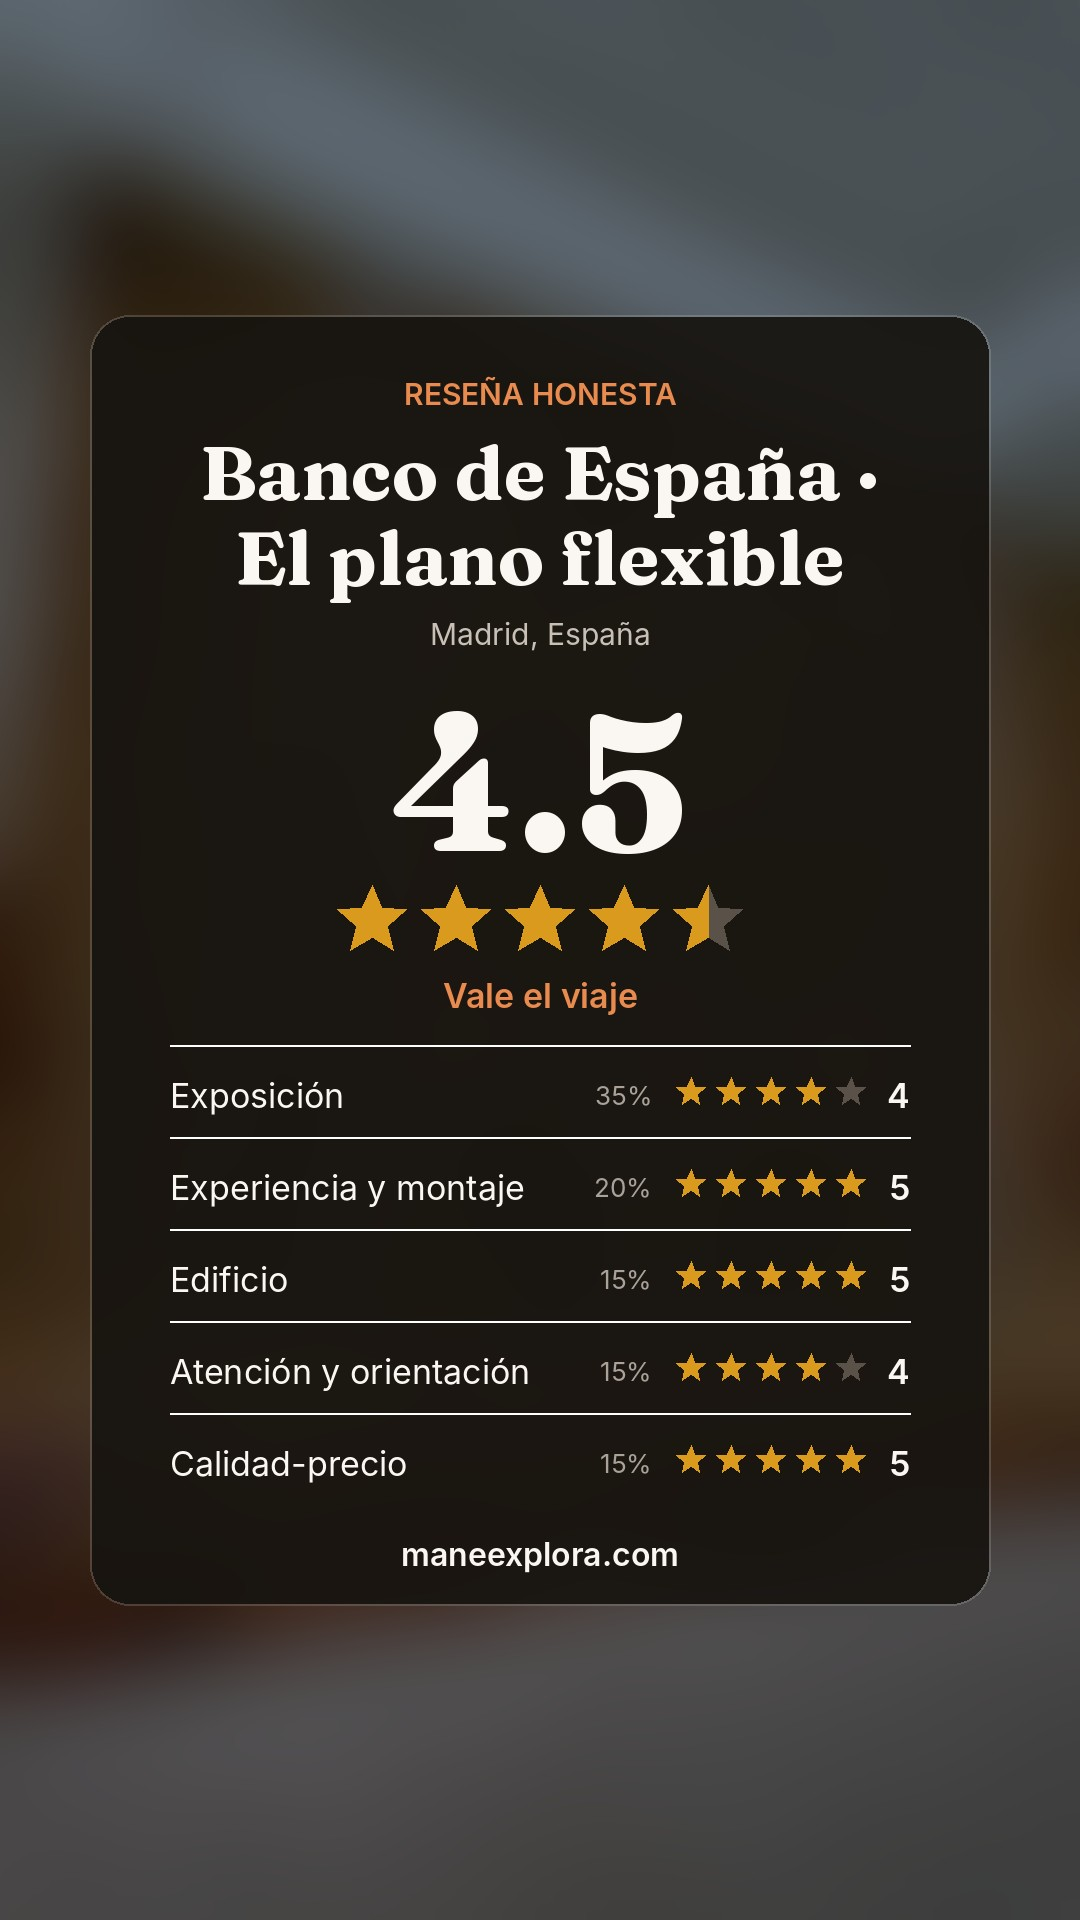
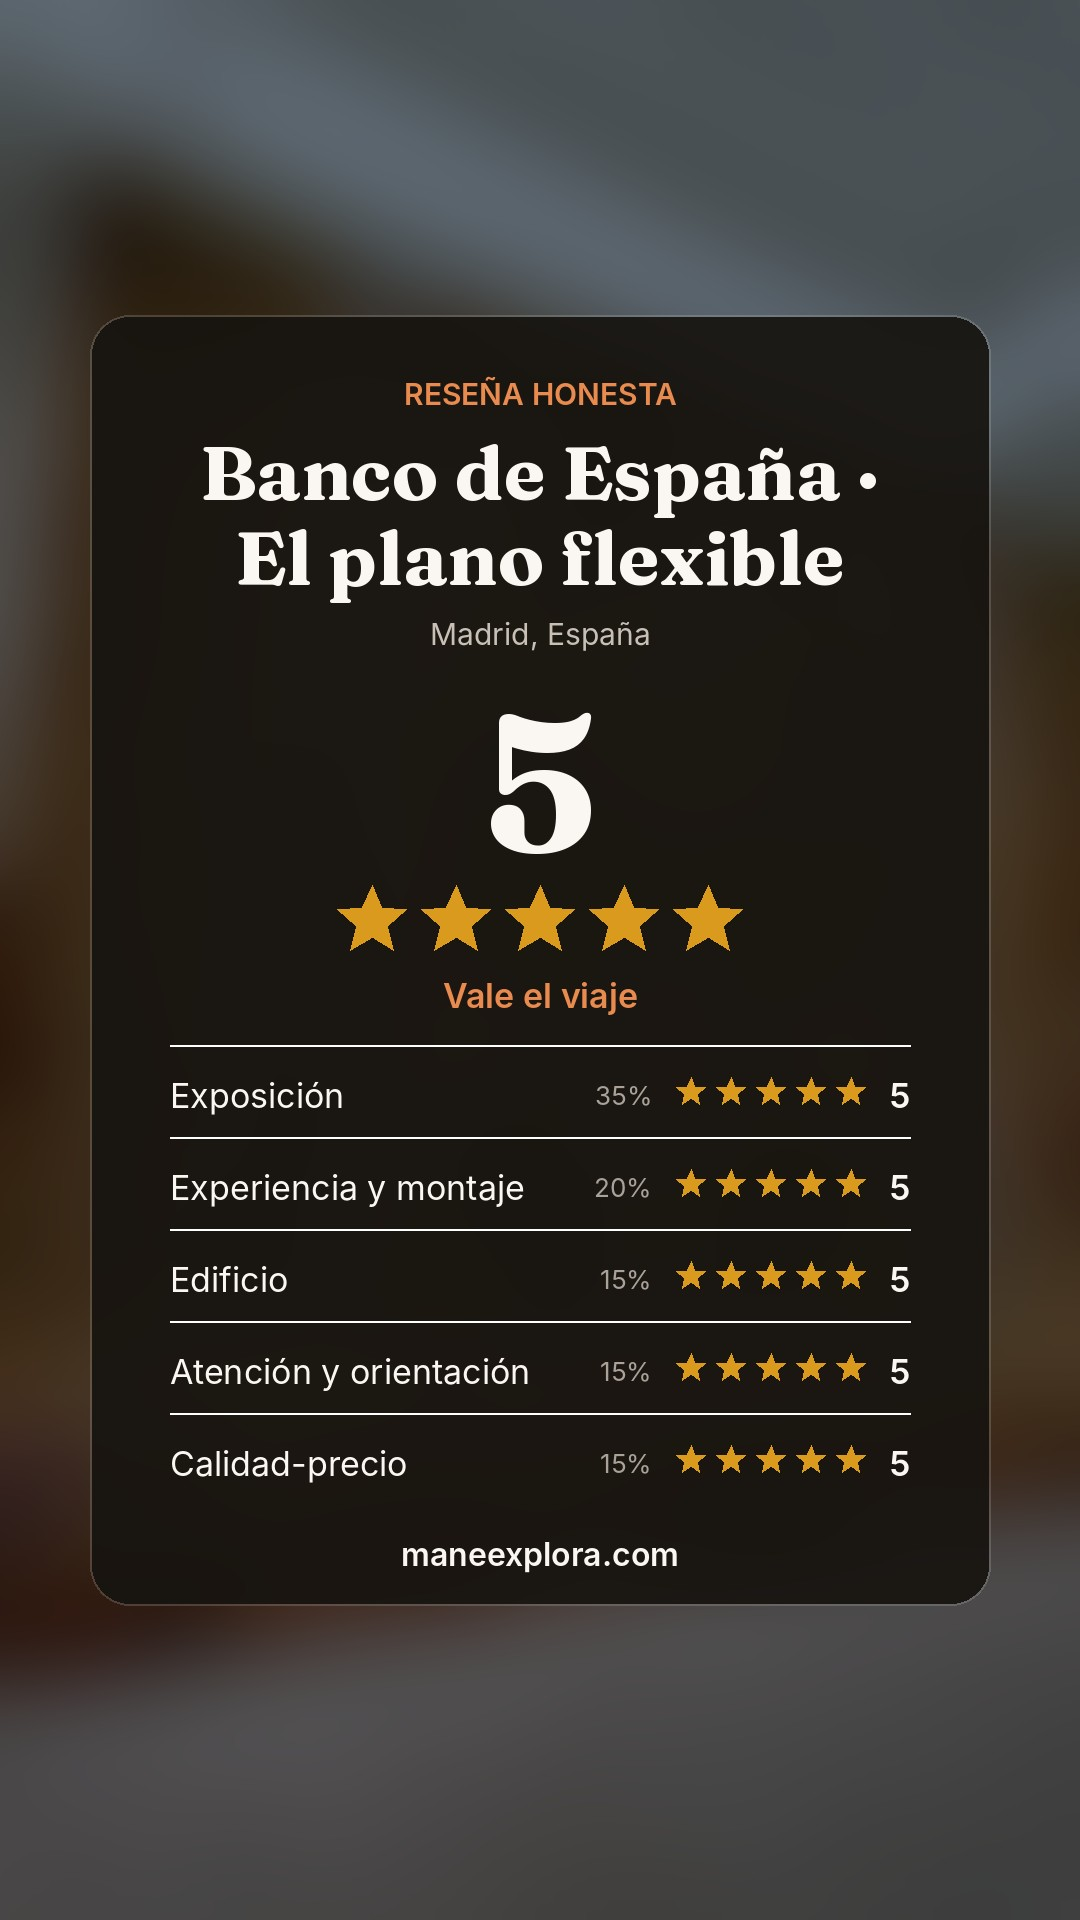
Banco de España 5/5; publicar reseñas Banco de España y San Ginés
Claude-Session: https://claude.ai/code/session_01GhBK2YVmfS443snH6m47yU

diff --git a/content/resenas/museo-banco-de-espana-el-plano-flexible.md b/content/resenas/museo-banco-de-espana-el-plano-flexible.md
@@ -5,7 +5,7 @@ date: 2026-11-04
 place: Sala de Exposiciones del Banco de España
 city: Madrid, España
 category: Arte y cultura
-rating: 4.5
+rating: 5
 verdict_label: "Vale el viaje"
 instagram: bancodeespana
 map_query: Banco de España, Plaza de Cibeles, 28014 Madrid
@@ -20,7 +20,7 @@ duration: "Unos 30 minutos"
 ideal_for: "Quien pase por Cibeles y quiera ver arte distinto, sin pagar"
 would_return: "Sí, según la exposición que tengan"
 paid: true
-scores: {"Exposición": 4, "Experiencia y montaje": 5, "Edificio": 5, "Atención y orientación": 4, "Calidad-precio": 5}
+scores: {"Exposición": 5, "Experiencia y montaje": 5, "Edificio": 5, "Atención y orientación": 5, "Calidad-precio": 5}
 order_title: "Qué no perderse"
 order:
   - "La alfombra colgada al centro de la sala, bajo el techo de casetones"
